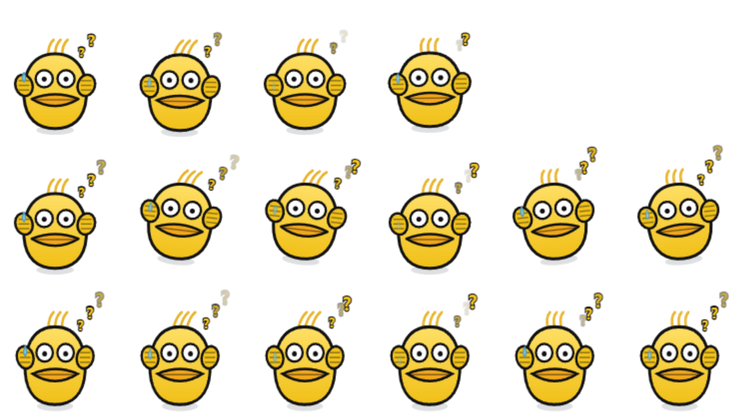
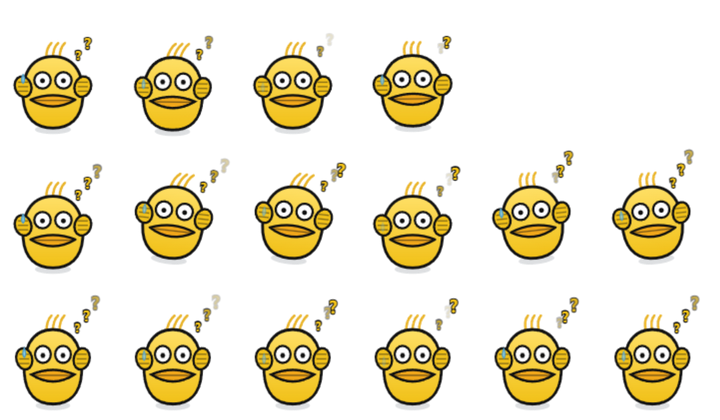
修皮肤「脚下留白、拖不到桌面底边」
原因在生成器的两遍适配里：垂直方向用了居中
  const offY = -((minY + maxY) / 2) * k;
而程序绘制皮肤时是按「整格底边对齐画布底部」来摆的。
格子里内容一居中，角色脚下就多出一块空白，拖动时先撞到那块空白。
代码手绘的「篮球男孩」不走皮肤路径，所以只有皮肤有这个现象。

改成底部对齐：
  const offY = (FH / 2 - 5) - maxY * k;
同时把内容高度占比从 94% 收到 90%，两头都留出抗锯齿余量。

实测脚底留白（脚底到格子底边）：修前约 20px，修后 3~4px。
剩下的 14~16px 是待机呼吸弹跳本身的起伏，不是布局留白。
10 个皮肤边界自检全部通过。

diff --git a/build/make-skins.js b/build/make-skins.js
@@ -1564,11 +1564,15 @@ app.whenReady().then(async () => {
 
       /* ---- 反算成品尺寸：高度固定 140、内容占 94%；宽度按内容比例给 ---- */
       const base = 0.8;
-      const scale = Math.min(1.0, base * (FH * 0.94) / envH);
+      const scale = Math.min(1.0, base * (FH * 0.90) / envH);
       const k = scale / base;
       const fw = Math.max(72, Math.ceil(envW * k + 22));
       const offX = -((minX + maxX) / 2) * k;
-      const offY = -((minY + maxY) / 2) * k;
+      /* 垂直方向千万不能居中：程序画皮肤时是把「整格底边」对齐到画布
+         底部的，格子里内容一旦居中，角色脚下就会多留一块空白，
+         拖动宠物时会先撞到那块空白、到不了桌面底边。
+         所以这里让内容底部贴住格子底部（留 3px 余量）。 */
+      const offY = (FH / 2 - 5) - maxY * k;
 
       /* ---- 第二遍：按成品尺寸重画（列宽 fw、行高 FH，两者不同） ---- */
       await w.webContents.executeJavaScript(
